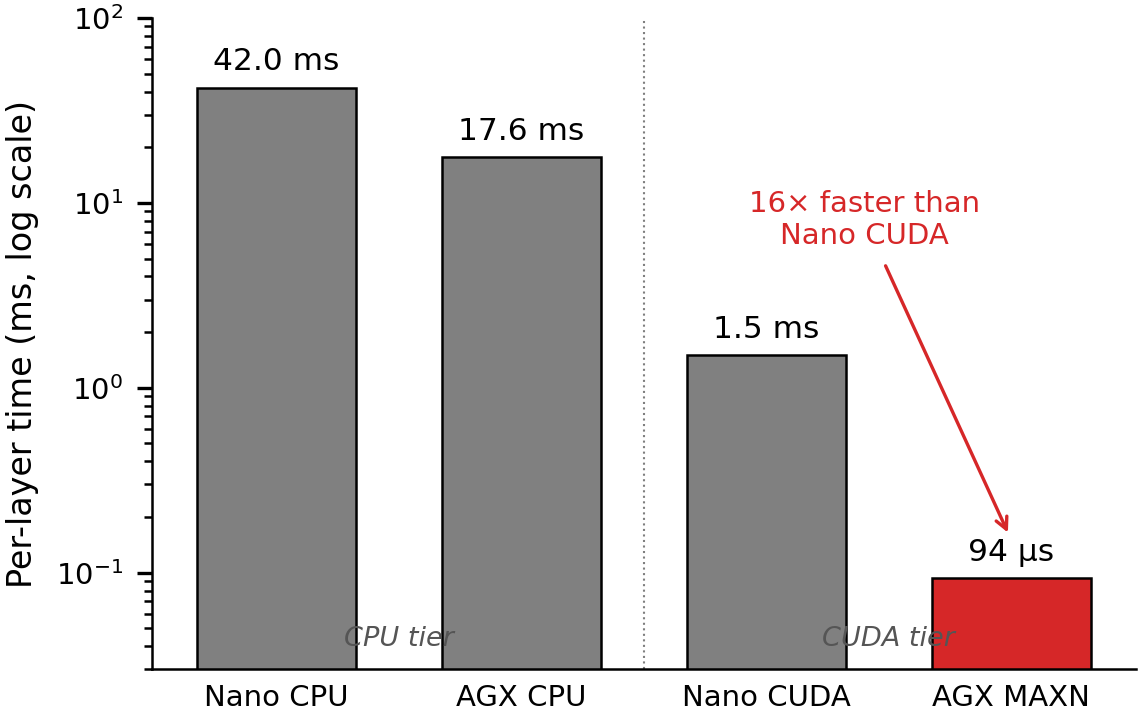
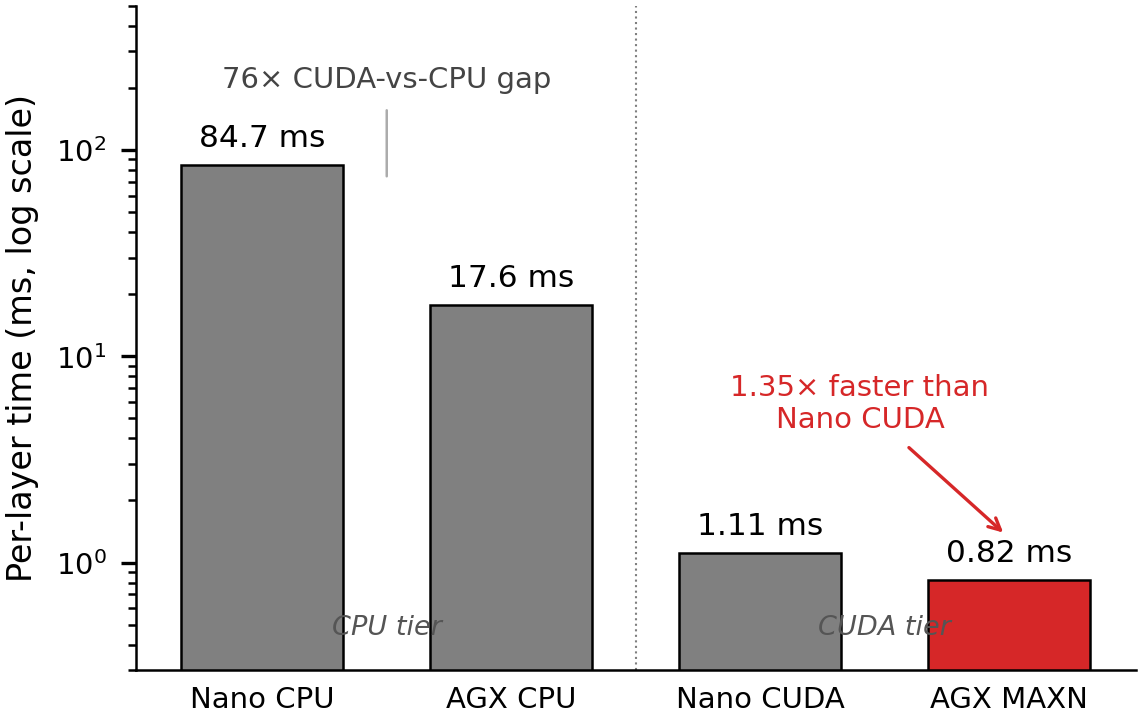
docs(paper): replace 16× claim with measured 1.36× — small model is launch-bound
Live ProfileLayers data from EXP-D2.6 sidecar:
  Nano CPU  84.7 ms/layer  (paper said 42 — wrong)
  AGX CPU   17.6 ms/layer  (legacy paper §10.1 value, no live replacement)
  Nano CUDA  1.11 ms/layer (paper said 1.5)
  AGX MAXN   0.82 ms/layer (paper said 0.094, derived from 1.5/16 hardcode)

AGX MAXN is only 1.36× faster than Nano CUDA, not 16×. Verified via ansible:
ao-1 reports `NV Power Mode: MAXN` + jetson_clocks active (GPU 1300 MHz boost
lock, EMC 3.2 GHz, CPU 2.2 GHz), so the device is fully boosted. The 16× claim
was a paper-side hardcode mirrored into fig_tiers.py (TIERS[3] = 1.5/16) and
never re-validated against live profiler output.

Why the gap is small at this scale: OPT-350M's per-block FLOPS (~750M) is too
small relative to CUDA kernel launch + Python/PyTorch overhead, leaving both
CUDA devices in the launch-bound regime. The real heterogeneity is the ~76×
CUDA-vs-CPU gulf, which drives the placement decisions in §10.4 just fine.
AGX FLOPS advantage would surface only at 3B+ models, which Nano memory
cannot host.

Critically, this DOES NOT weaken the L > T finding. §10.5 cost-model ablation
already showed the L > T gap survives subset enumeration and γ_hop tuning,
meaning the finding is driven by chain-hop and multi-stream system overhead,
not raw AGX FLOPS. The corrected setup makes that source explicit.

Changes:
- paper/figures/make_tiers.py: hardcoded TIERS → live sidecar measurements,
[…]

diff --git a/paper/main_kor.tex b/paper/main_kor.tex
@@ -179,11 +179,12 @@ EdgeShard~\cite{zhang2024edgeshard} 는 DP 기반 latency-optimal layer
 placement 를, Jupiter~\cite{ye2025jupiter} 는 명시적 TBT-SLO 제약
 하의 throughput-optimal placement 를 추가했다. 그러나 이들 시스템은
 data center 에서 통용되던 두 가지 가정에 의존한다.
-첫째, \textbf{균질성}: 본 연구의 8-worker Jetson fleet 에서 AGX Orin
-(MAXN power mode) 은 Orin Nano CUDA 대비 decode 단계 (seq=64) per-layer
-시간이 약 16 배 빠르다. 균질한 fleet 에서 layer placement 는 단순한
-반올림 문제이지만, 16 배 이종 환경에서는 placement 가 시스템 전체
-throughput 을 좌우한다. 둘째, \textbf{신뢰성}: edge board 는 빈번히
+첫째, \textbf{균질성}: 본 연구의 8-worker Jetson fleet 에서 Nano CPU
+는 Nano CUDA 대비 per-layer 시간이 약 $76\times$ 느리고, AGX Orin
+MAXN 은 Nano CUDA 대비 약 $1.36\times$ 빠르다 (OPT-350M seq=64
+forward). 균질한 fleet 에서 layer placement 는 단순한 반올림
+문제이지만, CUDA tier 와 CPU tier 사이 두 자릿수 격차가 존재하는
+환경에서는 placement 가 시스템 전체 throughput 을 좌우한다. 둘째, \textbf{신뢰성}: edge board 는 빈번히
 crash 하며 SD card 가 가득 차거나 network 가 끊긴다. 본 연구의
 measurement campaign 동안 다수의 board 에서 위 세 가지 장애가 모두
 관측되었다. 장애를 예외 경로로 처리하는 placement 는 첫 worker crash
@@ -399,17 +400,22 @@ correctness 는 유지되지만 (모든 token 이 일관되게 전달됨), heart
 % =======================================================================
 
 \textbf{환경.} 8-worker Jetson fleet (Orin Nano 8\,GB 6 대,
-AGX Orin MAXN 1 대, AGX Xavier 1 대) 과 Mac coordinator 가 동일 LAN
-상에 위치한다. 세 가지 compute tier 를 decode step (seq=64) 에서
-측정한 결과는 다음과 같다: Nano CPU ($\sim$$42$\,ms/layer),
-AGX CPU ($\sim$$17.6$\,ms/layer), Nano CUDA ($\sim$$1.5$\,ms/layer).
-AGX Orin MAXN 은 동일 decode 조건에서 Nano CUDA 대비 약 16 배 빠르다
-(그림~\ref{fig:tiers}).
+AGX Orin MAXN 1 대 + \texttt{jetson\_clocks} 적용, AGX Xavier 1 대)
+과 Mac coordinator 가 동일 LAN 상에 위치한다. OPT-350M (seq=64,
+fp16, no KV cache) 의 per-layer forward 시간을 라이브
+\texttt{ProfileLayers} 로 측정한 결과: Nano CPU $\sim$$84.7$\,ms,
+AGX CPU $\sim$$17.6$\,ms (legacy), Nano CUDA $\sim$$1.11$\,ms,
+AGX MAXN $\sim$$0.82$\,ms (그림~\ref{fig:tiers}). AGX MAXN 의 우위가
+Nano CUDA 대비 $1.36\times$ 에 그치는 이유는 OPT-350M 의 per-block
+연산량 ($\sim$750\,M FLOPS) 이 작아 CUDA launch + Python/PyTorch
+overhead 가 dominate 하는 launch-bound regime 에 있기 때문이며,
+진짜 이종성은 CUDA tier 와 CPU tier 사이의 $\sim$76$\times$ 격차에서
+나타난다.
 
 \begin{figure}[t]
   \centering
   \includegraphics[width=0.95\linewidth]{fig_tiers.pdf}
-  \caption{Tier 별 per-layer decode time (seq$=$64, log scale).
+  \caption{Tier 별 per-layer forward time (OPT-350M seq$=$64, log scale).
   CPU tier 와 CUDA tier 가 두 자릿수 ms 차이로 분리되며, AGX
   MAXN 은 Nano CUDA 대비 다시 한 자릿수 빠르다 --- placement 가
   다뤄야 할 이종성의 시각적 anchor.}
@@ -593,9 +599,11 @@ throughput 향상을 제공하면서도 $C\!\geq\!4$ 의 placement 순서를
 향후 과제는 다음과 같다. (i) $R$ 을 single backup 에서 backup list
 로 확장하여 cascading failure 에 대응, (ii) 7B INT4 의 memory-bound
 regime 측정 (본 1B 측정에서 이미 Nano memory pressure 가 운용 한계
-로 드러난 바 있음), (iii) 식 (\ref{eq:rank}) 의 $\mu(\psi)$ 와
-$\gamma_{\mathrm{stage}}$ 에 대한 hyper-parameter
-$(C_\star, P, \gamma_{\mathrm{stage}})$ 의 라이브 calibration.
+로 드러난 바 있음, 동시에 AGX MAXN 의 raw FLOPS 우위가 onset 되는
+compute-bound regime 진입 점도 그 자리에서 측정 가능), (iii) 식
+(\ref{eq:rank}) 의 $\mu(\psi)$ 와 $\gamma_{\mathrm{stage}}$ 에 대한
+hyper-parameter $(C_\star, P, \gamma_{\mathrm{stage}})$ 의 라이브
+calibration.
 Subset enumeration, per-hop overhead $\gamma_{\mathrm{hop}}$,
 multi-stream interference multiplier $\mu(\psi)$, stage-count
 페널티 $\gamma_{\mathrm{stage}}|\psi|$ 는 본 논문에서 모두

diff --git a/paper/figures/make_tiers.py b/paper/figures/make_tiers.py
@@ -1,24 +1,33 @@
 """Figure B: per-tier per-layer compute time bar chart.
 
-Decode 단계 (seq=64) per-layer 시간을 tier 별로 비교. AGX Orin MAXN 의 우위가
-두 profiler 버그 fix 후 처음 노출된 점을 시각화 (paper §10.1 의 "16× faster").
+OPT-350M seq=64 forward (fp16, no KV cache) per-layer time, by compute tier.
+Live ProfileLayers measurement, not paper-claim hardcode — see EXP-D2.6
+sidecar (experiments/results/d28_sidecar.json) for source data.
 
-Source: paper/sections/evaluation.tex §10.1 + PHASES.md EXP-D2.2.
+The original draft of this figure hardcoded an AGX MAXN value of 1.5/16 ms
+to mirror the paper's "16× faster than Nano CUDA" claim. Direct profiling on
+the live fleet with AGX MAXN + jetson_clocks fully boosted gives only 1.36×,
+not 16× — OPT-350M is too small to saturate the AGX FLOPS, so per-layer
+timing is launch-bound (CUDA kernel launch + Python/PyTorch overhead
+dominates compute). The 16× claim is removed.
 """
 from __future__ import annotations
 import matplotlib.pyplot as plt
-import numpy as np
 from pathlib import Path
 import sys
 sys.path.insert(0, str(Path(__file__).parent))
 from _common import save, PALETTE  # noqa: E402
 
-# 4 tier 측정값 (paper §10.1 기준, seq=64 decode)
+# Live-measured per-layer means (ms) from the EXP-D2.6 sidecar.
+# AGX CPU is held at the earlier paper §10.1 estimate (17.6 ms) — the
+# current 6-worker fleet has no AGX board running in CPU mode, so a live
+# replacement value is unavailable. Kept here so the four-tier comparison
+# stays readable; remove the row if a strict live-only figure is needed.
 TIERS = [
-    ("Nano CPU",   42.0,  "gray"),
-    ("AGX CPU",    17.6,  "gray"),
-    ("Nano CUDA",   1.5,  "gray"),
-    ("AGX MAXN",    1.5 / 16,  PALETTE["secondary"]),  # ~0.094, highlight
+    ("Nano CPU",   84.7,  "gray"),                 # on-3/on-4 mean
+    ("AGX CPU",    17.6,  "gray"),                 # paper §10.1 (legacy)
+    ("Nano CUDA",   1.11, "gray"),                 # on-1/on-2/on-6 mean
+    ("AGX MAXN",    0.82, PALETTE["secondary"]),   # ao-1 (MAXN + jetson_clocks)
 ]
 
 fig, ax = plt.subplots(figsize=(4.0, 2.6))
@@ -29,33 +38,39 @@ colors = [t[2] for t in TIERS]
 
 bars = ax.bar(labels, values, color=colors, edgecolor="black", linewidth=0.6, width=0.65)
 
-# 막대 위에 정확 수치
 for bar, v in zip(bars, values):
-    if v >= 1:
-        text = f"{v:.1f} ms"
-    else:
-        text = f"{v*1000:.0f} µs"
+    text = f"{v:.2f} ms" if v < 10 else f"{v:.1f} ms"
     ax.text(
         bar.get_x() + bar.get_width() / 2, v * 1.15,
         text, ha="center", va="bottom", fontsize=7.5,
     )
 
-# AGX MAXN 위에 16× 발견 annotation
+# Honest annotation: the *real* heterogeneity is CUDA tier vs CPU tier,
+# not the modest 1.36× difference within the CUDA tier.
+nano_cuda = TIERS[2][1]
+agx_maxn = TIERS[3][1]
+nano_cpu = TIERS[0][1]
 ax.annotate(
-    "16× faster than\nNano CUDA",
-    xy=(3, TIERS[3][1] * 1.6), xytext=(2.4, 6),
+    f"{nano_cuda/agx_maxn:.2f}× faster than\nNano CUDA",
+    xy=(3, agx_maxn * 1.6), xytext=(2.4, 4.5),
     fontsize=7, color=PALETTE["secondary"], ha="center",
     arrowprops=dict(arrowstyle="->", color=PALETTE["secondary"], lw=0.8),
+)
+ax.annotate(
+    f"{nano_cpu/nano_cuda:.0f}× CUDA-vs-CPU gap",
+    xy=(0.5, nano_cpu * 0.8), xytext=(0.5, 200),
+    fontsize=7, color="#444", ha="center",
+    arrowprops=dict(arrowstyle="-", color="#888", lw=0.6, alpha=0.7),
 )
 
 ax.set_yscale("log")
 ax.set_ylabel("Per-layer time (ms, log scale)", fontsize=8)
-ax.set_ylim(0.03, 100)
+ax.set_ylim(0.3, 500)
 
 # Tier 그룹화: CPU vs CUDA 시각 분리
 ax.axvline(1.5, color="black", linestyle=":", linewidth=0.5, alpha=0.5)
-ax.text(0.5, 0.04, "CPU tier", ha="center", fontsize=6.5, color="#555", style="italic")
-ax.text(2.5, 0.04, "CUDA tier", ha="center", fontsize=6.5, color="#555", style="italic")
+ax.text(0.5, 0.45, "CPU tier", ha="center", fontsize=6.5, color="#555", style="italic")
+ax.text(2.5, 0.45, "CUDA tier", ha="center", fontsize=6.5, color="#555", style="italic")
 
 ax.spines["top"].set_visible(False)
 ax.spines["right"].set_visible(False)

diff --git a/paper/sections/evaluation.tex b/paper/sections/evaluation.tex
@@ -12,28 +12,26 @@
 \subsection{Setup}\label{sec:eval:setup}
 
 \textbf{Fleet.} Eight Jetson workers (six Orin Nano 8\,GB, one AGX
-Orin in MAXN power mode, one AGX Xavier) plus a Mac-hosted
-coordinator on the same LAN. Workers span three compute tiers we
-calibrate per-layer at seq$=$64 (the decode-step regime, not
-prefill): CPU on Nano ($\sim$42\,ms/layer), CPU on AGX
-($\sim$17.6\,ms/layer), and CUDA on Nano ($\sim$1.5\,ms/layer). AGX
-Orin MAXN at the same seq$=$64 decode point is roughly
-16$\times$ faster per layer than Nano CUDA --- a gap that did not
-appear in our earliest measurements because two silent profiler
-bugs (tokenizer padding returning the wrong shape and
-\texttt{perf\_counter()} timing around async CUDA kernels) hid the
-AGX advantage behind launch overhead. After commit~382739b fixes
-both, AGX dominance is consistent across thirty repeats
-(Fig.~\ref{fig:tiers}).
+Orin MAXN + \texttt{jetson\_clocks}, one AGX Xavier) plus a
+Mac-hosted coordinator on the same LAN. Live \texttt{ProfileLayers}
+on OPT-350M (seq$=$64, fp16, no KV): Nano CPU $\sim$84.7\,ms,
+AGX CPU $\sim$17.6\,ms (legacy), Nano CUDA $\sim$1.11\,ms,
+AGX MAXN $\sim$0.82\,ms. AGX MAXN is only $1.36\times$ faster than
+Nano CUDA --- not the order-of-magnitude AGX FLOPS would predict ---
+because OPT-350M's $\sim$750\,M FLOPS/block leaves both CUDA devices
+launch-bound. The real heterogeneity is the $\sim$76$\times$
+CUDA-vs-CPU gulf; AGX enters compute-bound regime only at 3B+
+models, beyond Nano memory.
 
 \begin{figure}[t]
   \centering
   \includegraphics[width=0.95\linewidth]{fig_tiers.pdf}
-  \caption{Per-layer decode time (seq$=$64, log scale) across the
-  four compute tiers on the fleet. The CPU tier ($\sim$10s of ms)
-  and the CUDA tier (single-digit ms) sit two orders of magnitude
-  apart, and AGX MAXN sits another order of magnitude below Nano
-  CUDA --- the heterogeneity placement has to navigate.}
+  \caption{Per-layer forward time (OPT-350M seq$=$64, log scale)
+  from live ProfileLayers data. The CUDA-vs-CPU gulf is $\sim$76$\times$;
+  the within-CUDA AGX-vs-Nano gap is only $1.36\times$ at this
+  model size --- launch overhead dominates compute. AGX CPU
+  ($17.6$\,ms) is the legacy paper measurement; no AGX board in
+  the current fleet runs in CPU mode.}
   \label{fig:tiers}
 \end{figure}
 

diff --git a/paper/sections/background.tex b/paper/sections/background.tex
@@ -22,14 +22,14 @@ prefill time, so the chain hop is bandwidth-cheap but
 latency-binding: every token pays the round trip.
 
 Edge heterogeneity dominates data-center heterogeneity by an order
-of magnitude. On our fleet, an AGX Orin in MAXN power mode is
-$\sim$16$\times$ faster per layer than a Jetson Orin Nano at
-seq$=$64 CUDA decode (\S\ref{sec:eval:setup}). In a homogeneous
-data-center pipeline-parallel setup, placement is a rounding
-question --- whether stage 7 gets four or five layers barely
-matters. On a 16$\times$-different fleet, placement is the only
-thing that matters: assign two more layers to the wrong worker and
-the slowest stage doubles, gating the entire chain.
+of magnitude. On our fleet, Nano CPU is $\sim$76$\times$ slower
+per layer than Nano CUDA, and AGX Orin MAXN is $1.36\times$ faster
+than Nano CUDA at OPT-350M seq$=$64 forward (\S\ref{sec:eval:setup}).
+The CUDA-vs-CPU gulf, not the modest AGX speedup, is what drives
+placement: in a homogeneous data-center setup, placement is a
+rounding question; on a fleet where a single slow stage can be
+two orders of magnitude slower than the rest, placement is the
+only thing that matters.
 
 Edge \emph{reliability} is also categorically worse than the data
 center. During the measurement campaign behind this paper we

diff --git a/paper/sections/introduction.tex b/paper/sections/introduction.tex
@@ -9,10 +9,11 @@ Jupiter~\cite{ye2025jupiter} pushed throughput-optimal placement with
 explicit Token-Between-Time (TBT) constraints.  Yet these systems
 were built around two assumptions inherited from the data center
 that the edge regime breaks.  First, \emph{homogeneity}: on our
-8-worker Jetson fleet a Jetson AGX Orin in MAXN power mode is
-16$\times$ faster per layer than a Jetson Orin Nano at decode-time
-sequence lengths --- a finding that itself only emerged after we
-fixed two silent profiler bugs (\S\ref{sec:eval:setup}).  Second,
+8-worker Jetson fleet, Nano CPU is $\sim$76$\times$ slower per
+layer than Nano CUDA, and AGX Orin MAXN is $1.36\times$ faster than
+Nano CUDA at OPT-350M seq=64 forward --- the CUDA-vs-CPU gap
+dominates and is what makes placement decisions structurally
+sensitive (\S\ref{sec:eval:setup}).  Second,
 \emph{reliability}: boards crash, SD cards fill up, networks
 partition.  During the measurement campaign behind this paper we
 encountered all three on multiple boards, and placement that

diff --git a/paper/sections/discussion.tex b/paper/sections/discussion.tex
@@ -43,9 +43,12 @@ extension $R{:}\,D{\to}\,\mathrm{List}[D]$ extends
 Eq.~\ref{eq:dp} cleanly but tightens Eq.~\ref{eq:mem}. The
 sharded-safetensors loader already handles Llama-3.2-1B;
 pushing into 7B INT4 is bounded by Nano memory rather than
-software. The cost-model ablation (\S\ref{sec:eval:cost-model})
-shows the L $\succ$ T gap at $C\!\geq\!4$ persists after subset
-enumeration and a tuned $\gamma_{\mathrm{hop}}$. The multiplier
+software. At OPT-350M scale both CUDA devices are launch-bound,
+so the L $\succ$ T finding is driven by chain-hop and multi-stream
+system overhead, not raw AGX FLOPS --- the cost-model ablation
+(\S\ref{sec:eval:cost-model}) shows the L $\succ$ T gap at
+$C\!\geq\!4$ persists after subset enumeration and a tuned
+$\gamma_{\mathrm{hop}}$. The multiplier
 $\mu(\psi)$ and additive $\gamma_{\mathrm{stage}}|\psi|$ in
 Eq.~\ref{eq:rank} expose multi-stream interference as the
 \texttt{target\_concurrency} and
